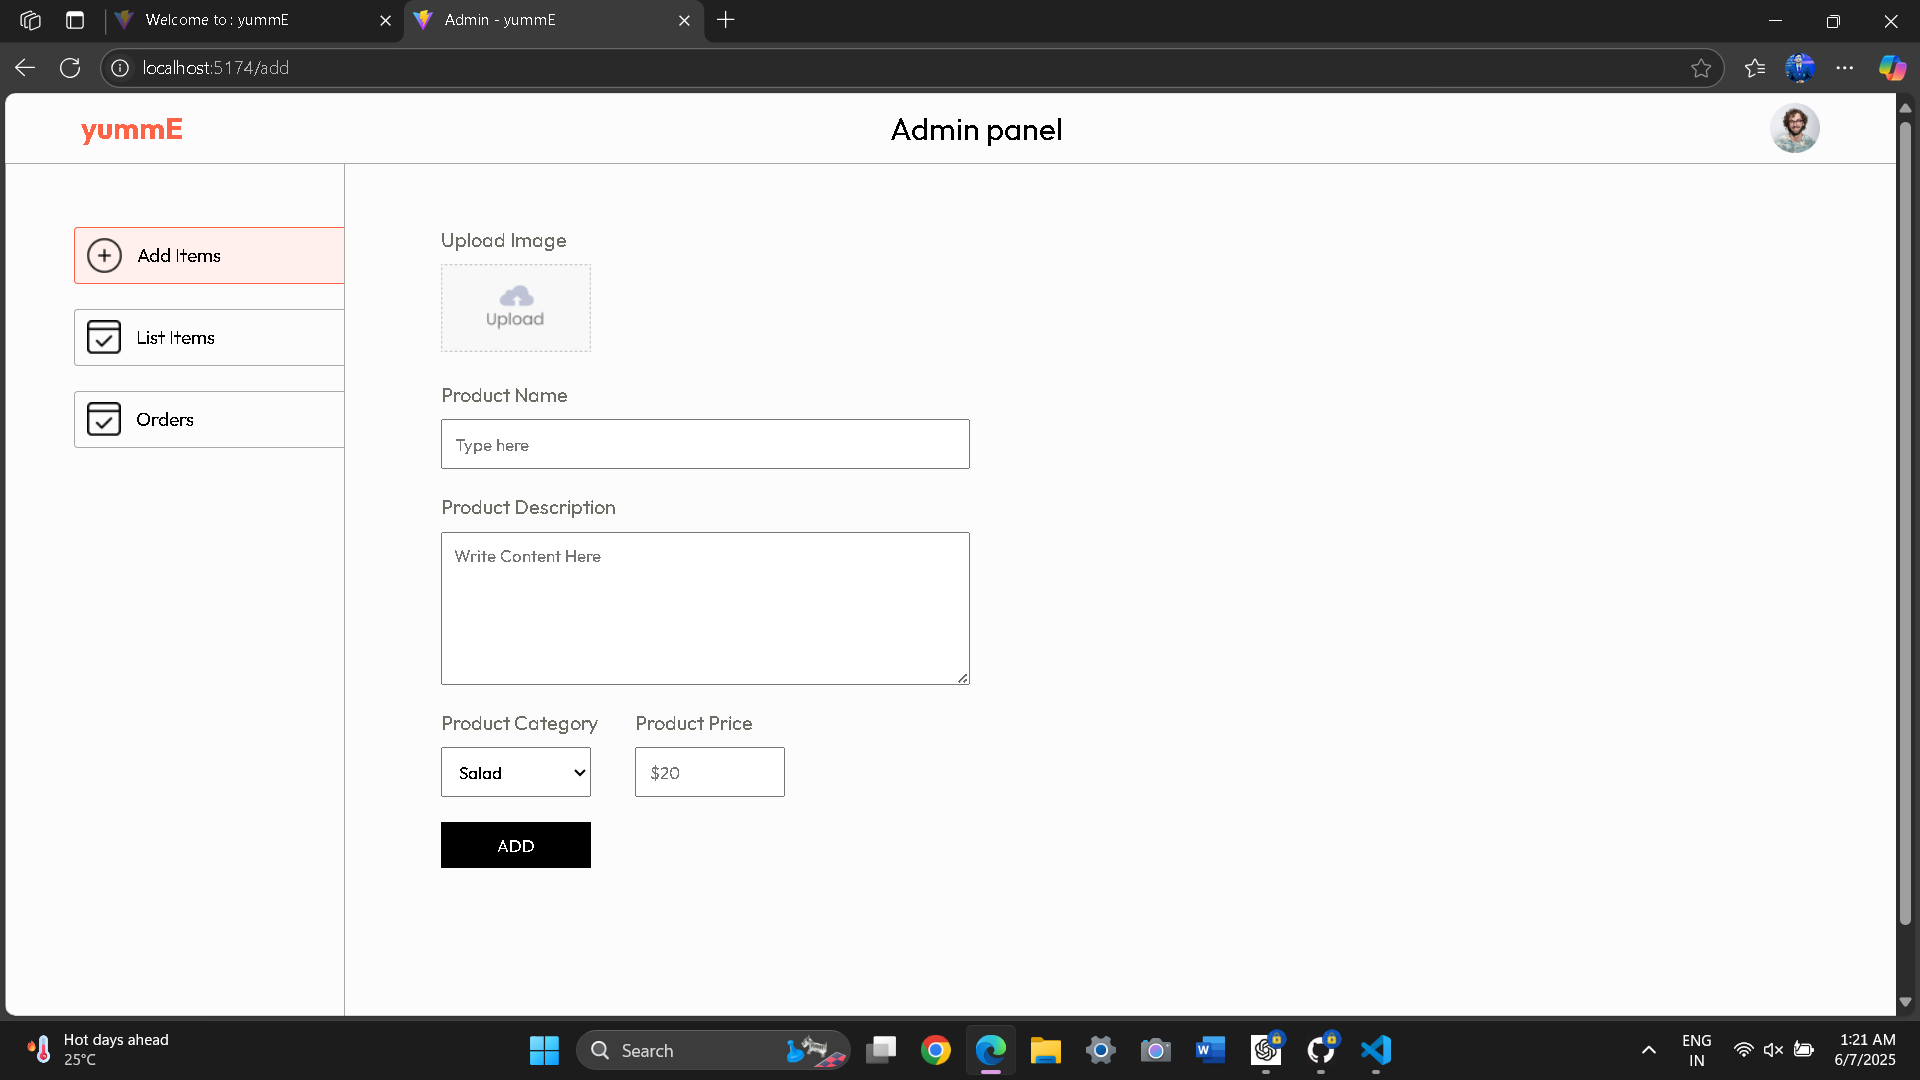
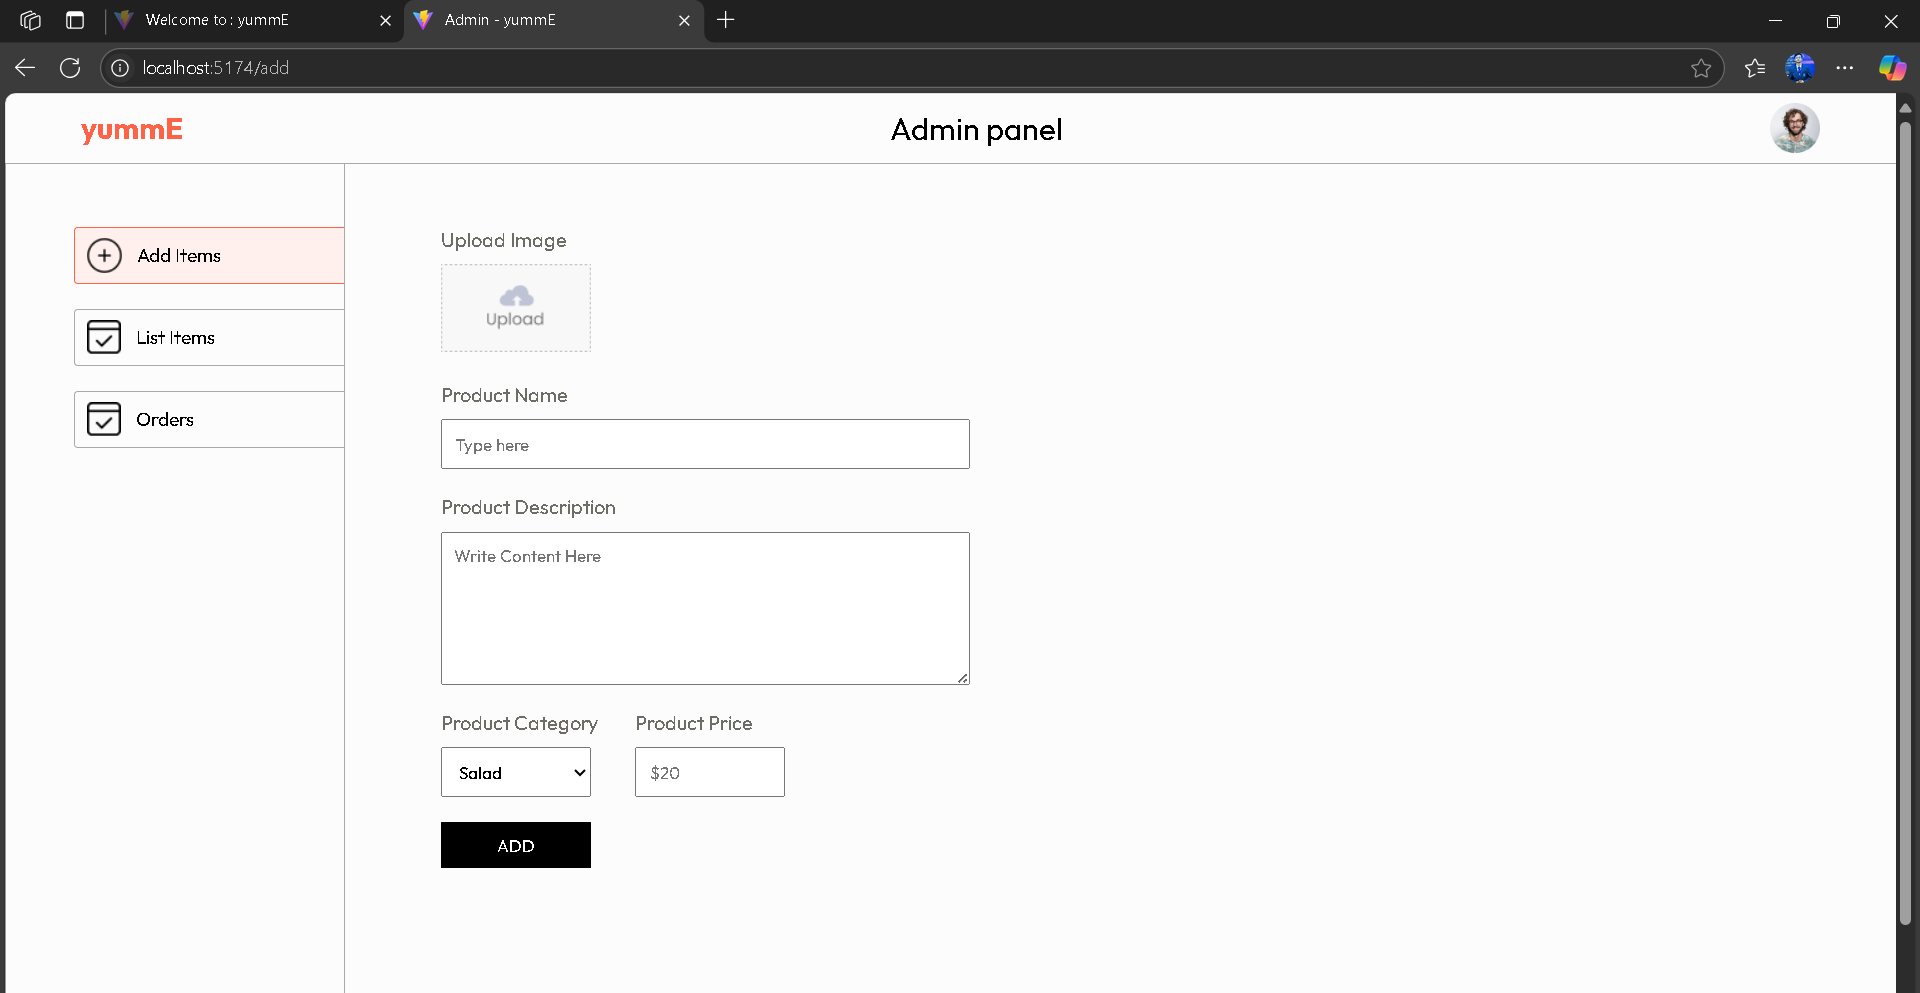
Screshot modified

diff --git a/YummE-food-app/my-food-app/index.html b/YummE-food-app/my-food-app/index.html
@@ -2,9 +2,9 @@
 <html lang="en">
   <head>
     <meta charset="UTF-8" />
-    <link rel="icon" type="image/svg+xml" href="/vite.svg" />
+    <link rel="icon" type="image/svg+xml" href="/logo.png" />
     <meta name="viewport" content="width=device-width, initial-scale=1.0" />
-    <title>Welcome to : yummE</title>
+    <title>yummE - Home</title>
   </head>
   <body>
     <div id="root"></div>
